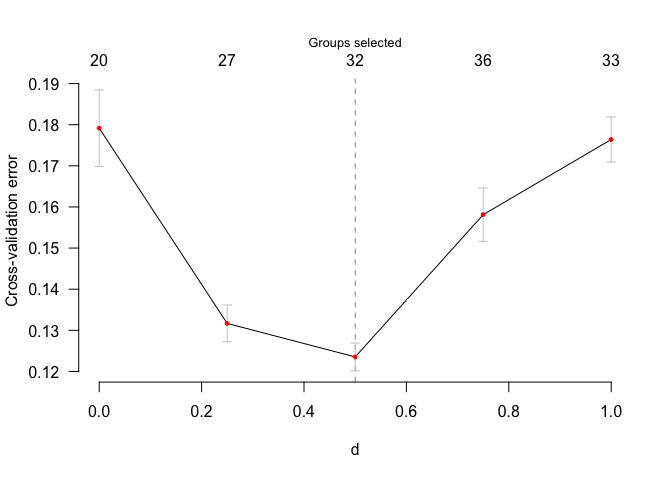
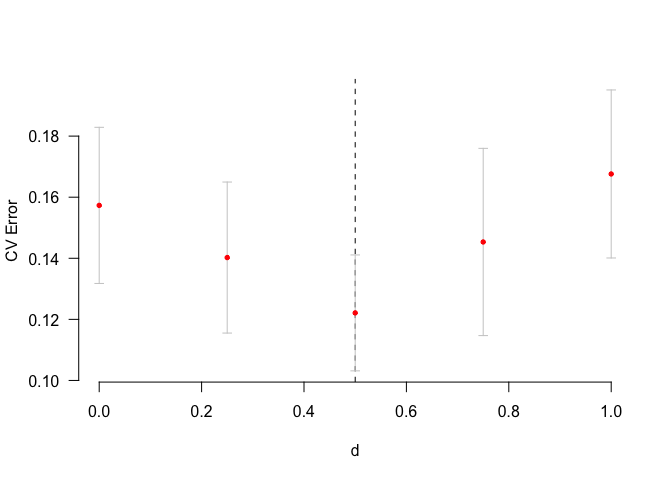
Restore d tuning plot in cv README

diff --git a/README.md b/README.md
@@ -47,13 +47,13 @@ model_CV <- cv.sglasso(X,y,group, nlambda=20, nd= 5, nfold = 5, alpha = 0.4)
 plot(model_CV)
 ```
 
-<img src="man/figures/README-example-1.png" width="100%" />
+<img src="man/figures/README-example-1.png" alt="" width="100%" />
 
 ``` r
 plot(model_CV,type.tun = "d")
 ```
 
-<img src="man/figures/README-example-2.png" width="100%" />
+<img src="man/figures/README-example-2.png" alt="" width="100%" />
 
 # References
 